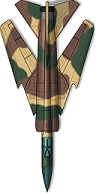
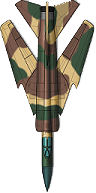
added fixed images with transparent BG

diff --git a/src/js/gameObjects.js b/src/js/gameObjects.js
@@ -45,7 +45,7 @@ function initGameObjects() {
                 enemyElement.style.backgroundImage = 'url("/src/css/images/enemyT2.png")';
                 enemyElement.classList.add('enemyT2');
             }else if(stats == state.enemyStateT3){
-                enemyElement.style.backgroundImage = 'url("/src/css/images/enemyT3.jpg")';
+                enemyElement.style.backgroundImage = 'url("/src/css/images/enemyT3.png")';
                 enemyElement.classList.add('enemyT3');
             }
 

diff --git a/src/js/gameState.js b/src/js/gameState.js
@@ -11,7 +11,7 @@ function initState(){
             posX: startX,
             posY: startY,
 
-            speed: 2,
+            speed: 2,  
         },
         cloudState:{
             width: 150,
